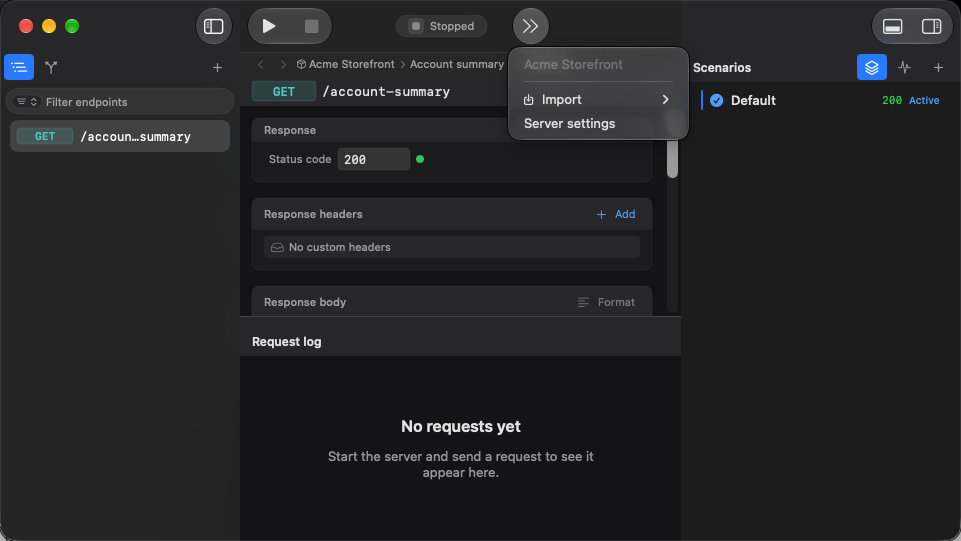
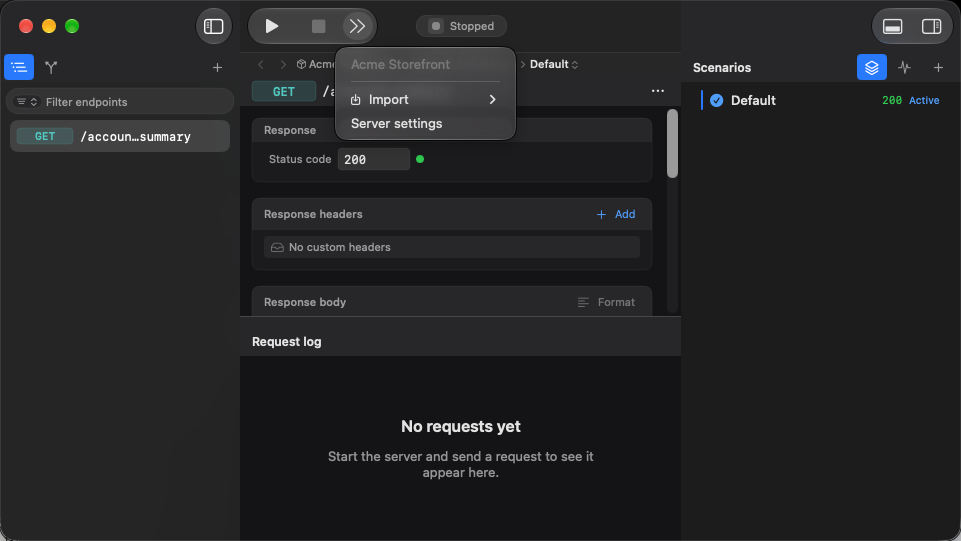
Keep Add backend accessible and refresh toolbar screenshots

Changed region(s): [[0.3122, 0.0, 0.718, 0.2662], [0.2497, 0.0296, 0.281, 0.0591]]

diff --git a/Sources/AppFeatures/WorkspaceFeature/BackendSettingsView.swift b/Sources/AppFeatures/WorkspaceFeature/BackendSettingsView.swift
@@ -7,14 +7,29 @@ import DesignSystem
 struct BackendSettingsView: View {
     @Environment(AppState.self) private var appState
     @Environment(\.dismiss) private var dismiss
-    @State private var draft = ServerConfiguration.default
+    @State private var draft: ServerConfiguration
     @State private var portText: [String: String] = [:]
     @State private var error: String?
+    @State private var newestBackendID: UUID?
+
+    init(configuration: ServerConfiguration) {
+        _draft = State(initialValue: configuration)
+    }
 
     var body: some View {
         VStack(alignment: .leading, spacing: DSSpacing.lg) {
             VStack(alignment: .leading, spacing: DSSpacing.sm) {
-                Text("Server settings").font(DSTypography.title)
+                HStack {
+                    Text("Server settings").font(DSTypography.title)
+                    Spacer()
+                    // Keep the creation action outside the scrolling Form. On a short display,
+                    // a click on its last row can be consumed while dismissing field focus.
+                    DSButton("Add backend", variant: .secondary, size: .small, identifier: "backend.add") {
+                        addBackend()
+                    }
+                    .accessibilityIdentifier("backend.add")
+                    .accessibilityLabel("Add backend")
+                }
                 Text("Point your app to each local URL. Mimic serves your mocks first, then forwards other calls to the real backend.")
                     .foregroundStyle(DSColors.labelSecondary)
                     .fixedSize(horizontal: false, vertical: true)
@@ -38,22 +53,15 @@ struct BackendSettingsView: View {
                         } header: { Text(backend.name.isEmpty ? "New backend" : backend.name) }
                             .id(backend.id)
                     }
-                    Button("Add backend", systemImage: "plus") {
-                        let used = Set(draft.listeners.map(\.port))
-                        let port = (8081...65535).first { !used.contains($0) } ?? 8081
-                        let backend = BackendConfiguration(name: "New backend", port: port)
-                        draft.backends.append(backend)
-                        // Form lazily realizes rows on compact displays. Bring the newly added
-                        // listener into view instead of leaving its fields below the viewport.
-                        Task { @MainActor in
-                            try? await Task.sleep(for: .milliseconds(100))
-                            scrollProxy.scrollTo(backend.id, anchor: .top)
-                        }
-                    }
-                    .accessibilityIdentifier("backend.add")
-                    .accessibilityLabel("Add backend")
                 }
                 .formStyle(.grouped)
+                .onChange(of: newestBackendID) { _, id in
+                    guard let id else { return }
+                    Task { @MainActor in
+                        try? await Task.sleep(for: .milliseconds(100))
+                        scrollProxy.scrollTo(id, anchor: .top)
+                    }
+                }
             }
             if let error {
                 Text(error).foregroundStyle(DSColors.destructive)
@@ -90,10 +98,17 @@ struct BackendSettingsView: View {
                 visibleScreenHeight: NSScreen.main?.visibleFrame.height ?? 900
             )
         )
-        .onAppear { draft = appState.serverConfiguration }
         // The form's dynamic sections must keep the identifiers on their individual fields.
         // A parent identifier can flatten onto newly realized rows on compact AppKit forms.
         .accessibilityElement(children: .contain)
+    }
+
+    private func addBackend() {
+        let used = Set(draft.listeners.map(\.port))
+        let port = (8081...65535).first { !used.contains($0) } ?? 8081
+        let backend = BackendConfiguration(name: "New backend", port: port)
+        draft.backends.append(backend)
+        newestBackendID = backend.id
     }
 
     @ViewBuilder

diff --git a/Sources/AppFeatures/AppCore/WorkspaceView.swift b/Sources/AppFeatures/AppCore/WorkspaceView.swift
@@ -273,7 +273,7 @@ struct WorkspaceView: View {
             )
         }
         .sheet(isPresented: $showBackendSettings) {
-            BackendSettingsView()
+            BackendSettingsView(configuration: appState.serverConfiguration)
                 .environment(appState)
         }
         // OpenAPI import sheet

diff --git a/docs/evidence/window-polish/README.md b/docs/evidence/window-polish/README.md
@@ -75,20 +75,21 @@ Live checks also resized the side panels at a fixed window width, including a
 running mock server with a synthetic `/account-summary` request. Center actions
 collapsed and expanded without moving the two right-hand panel toggles.
 
-The following unedited XCUITest window screenshots use isolated synthetic data,
-in dark appearance. They document the toolbar layout, not a complete app regression.
-The expanded capture is 1920 × 988 pixels; the compact captures are 961 × 541.
-Source: the passing
+The following unedited XCUITest window screenshots use isolated synthetic data
+in dark appearance. They document the current toolbar layout, not a complete app
+regression. The expanded capture is 1920 × 988 pixels; the compact captures are
+961 × 541. Source: the passing focused
 `WorkspaceShellUITests/testCenterToolbarOverflowKeepsPanelControlsSeparate()` in
-`/tmp/mimic-center-toolbar-three-panels.xcresult`, captured on 20 September 2026.
+`Test-Mimic-2026.09.20_18-17-19-+0100.xcresult`, captured on 20 September 2026.
+This refresh shows the editor actions in the navigation group, clear of the
+inspector boundary, while the right-hand panel toggles remain separate.
 
 Validation for this revision: 26 focused unit checks passed in
 `/tmp/mimic-center-toolbar-units.xcresult`. The center-toolbar test and both nested
 import-sheet actions passed in `/tmp/mimic-center-toolbar-final.xcresult`; panel
 shortcuts and copying the server address passed in the earlier focused batch.
-Earlier test attempts used stale menu identifiers and an incorrect assumption that
-opening space in the center should leave it compact; those test expectations were
-corrected and rerun. No full UI suite or CI checks were run.
+The focused toolbar test passed again after this revision. CI status for the PR
+must be checked separately before merge; these captures alone are not CI evidence.
 
 ![Expanded center toolbar with separate right-hand toggles](center-toolbar-expanded.png)
 
